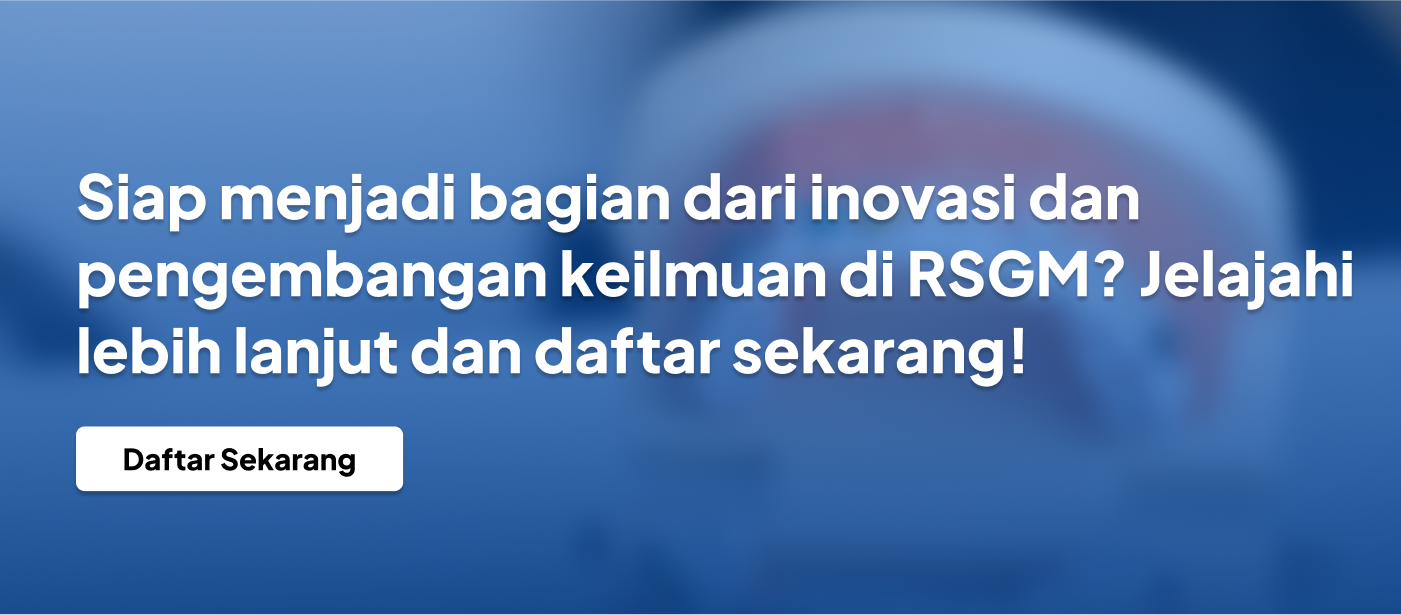
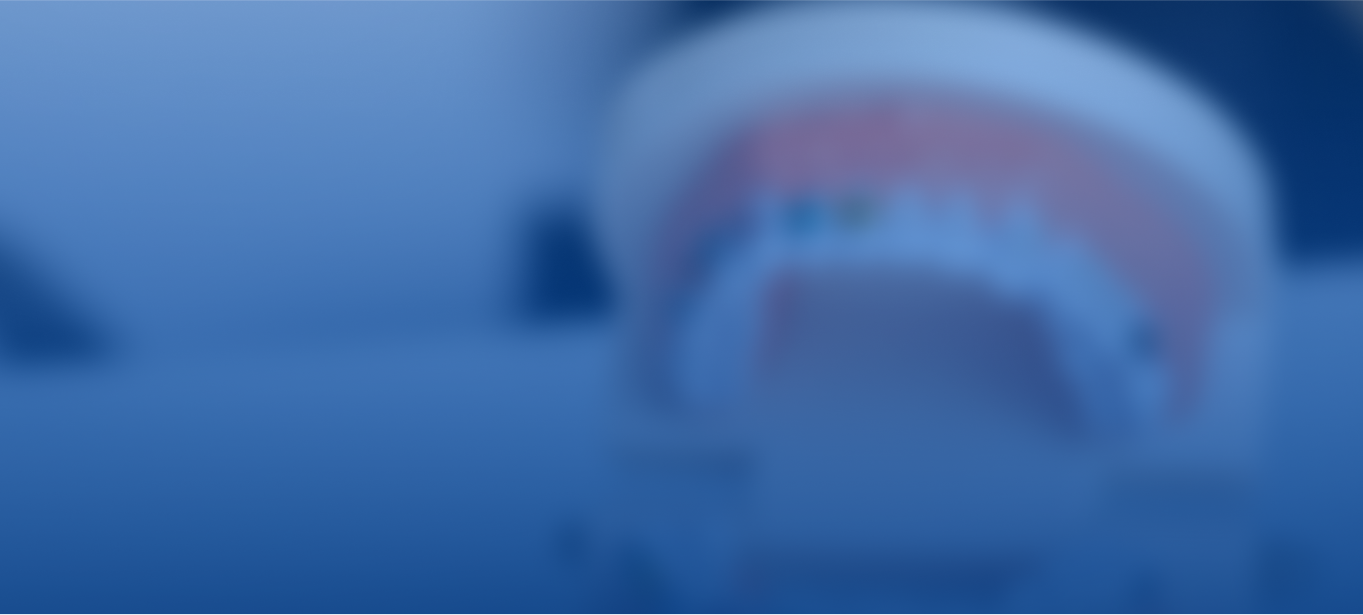
landingPage3

Changed region(s): [[0.0308, 0.1545, 0.9861, 0.6488], [0.0308, 0.6797, 0.3081, 0.8033], [0.0, 0.9886, 1.0, 1.0]]

diff --git a/app/landingPage/page.jsx b/app/landingPage/page.jsx
@@ -1,9 +1,9 @@
-
 'use client'
 import Image from "next/image";
 import Link from "next/link";
 
-const PageLandingpage = () => {
+const ComponentLandingpage = () => {
+  
   return (
     <div className="min-h-screen flex flex-col">
       {/* Header */}
@@ -52,28 +52,29 @@ const PageLandingpage = () => {
             </Link>
           </div>
 
-          <div className="hidden md:flex items-center gap-8">
-            <nav className="flex gap-6">
-              <Link
-                href="/penelitian"
-                className="font-medium text-white hover:text-[#0360d9]" // Ubah jadi putih
-              >
-                Penelitian
-              </Link>
-              <Link
-                href="/magang"
-                className="font-medium text-white hover:text-[#0360d9]" // Ubah jadi putih
-              >
-                Magang
-              </Link>
-            </nav>
-            <Link
-              href="/login"
-              className="bg-white text-black px-6 py-2 rounded-full font-medium border border-gray-200 hover:bg-gray-100 transition-colors"
-            >
-              Login
-            </Link>
-          </div>
+          <div className="md:flex items-center gap-8">
+  <nav className="flex gap-6">
+    <Link
+      href="/penelitian"
+      className="hidden md:block font-medium text-white hover:text-[#0360d9]" // Hanya hidden di mobile
+    >
+      Penelitian
+    </Link>
+    <Link
+      href="/magang"
+      className="hidden md:block font-medium text-white hover:text-[#0360d9]" // Hanya hidden di mobile
+    >
+      Magang
+    </Link>
+  </nav>
+  <Link
+    href="/login"
+    className="bg-white text-black px-6 py-2 rounded-full font-medium border border-gray-200 hover:bg-gray-100 transition-colors"
+  >
+    Login
+  </Link>
+</div>
+
         </div>
       </header>
 
@@ -205,43 +206,46 @@ const PageLandingpage = () => {
           </div>
         </section>
 
-        {/* Benefits Section */}
-        <section className="py-16">
-          <div className="container mx-auto px-4">
-            <h2 className="text-2xl font-bold mb-8">Keuntungan Bergabung di RSGM</h2>
+             {/* Benefits Section */}
+      <section className="py-16">
+        <div className="container mx-auto px-4">
+          <h2 className="text-5xl font-bold mb-10">Keuntungan Bergabung di RSGM</h2>
 
-            <div className="grid md:grid-cols-2 gap-8">
-              <div className="flex flex-col md:flex-row gap-4">
-                <div className="flex-1 space-y-6">
-                  <div className="bg-white p-6 rounded-lg shadow-sm border">
-                    <h3 className="font-bold text-lg mb-2">Akses Fasilitas Medis Modern</h3>
-                    <p className="text-gray-600">
-                      Gunakan peralatan terlengkap di lingkungan rumah sakit dengan teknologi terkini.
-                    </p>
-                  </div>
+          <div className="grid md:grid-cols-2 gap-8">
+            <div className="flex flex-col md:flex-row gap-4">
+              <div className="flex-1 space-y-10">
+                <div className="bg-white p-12 rounded-lg shadow-sm border">
+                  <h3 className="font-bold text-3xl mb-6">Akses Fasilitas Medis Modern</h3>
+                  <p className="text-gray-600 text-xl">
+                    Gunakan peralatan terlengkap di lingkungan rumah sakit dengan teknologi terkini.
+                  </p>
+                </div>
 
-                  <div className="bg-white p-6 rounded-lg shadow-sm border">
-                    <h3 className="font-bold text-lg mb-2">Bimbingan dari Profesional</h3>
-                    <p className="text-gray-600">Dibimbing oleh tenaga ahli dan praktisi berpengalaman di bidangnya.</p>
-                  </div>
+                <div className="bg-white p-12 rounded-lg shadow-sm border">
+                  <h3 className="font-bold text-3xl mb-6">Bimbingan dari Profesional</h3>
+                  <p className="text-gray-600 text-xl">Dibimbing oleh tenaga ahli dan praktisi berpengalaman di bidangnya.</p>
+                </div>
 
-                  <div className="bg-white p-6 rounded-lg shadow-sm border">
-                    <h3 className="font-bold text-lg mb-2">Peluang Berkontribusi</h3>
-                    <p className="text-gray-600">
-                      Berperan dalam penelitian dan praktik yang berdampak nyata pada dunia.
-                    </p>
-                  </div>
+                <div className="bg-white p-12 rounded-lg shadow-sm border">
+                  <h3 className="font-bold text-3xl mb-6">Peluang Berkontribusi</h3>
+                  <p className="text-gray-600 text-xl">
+                    Berperan dalam penelitian dan praktik yang berdampak nyata pada dunia.
+                  </p>
                 </div>
               </div>
+            </div>
 
-              <div className="grid grid-cols-2 gap-4">
+            <div className="grid grid-cols-1 gap-4">
+              <div>
                 <Image
-                  src="/placeholder.svg?height=250&width=250"
+                  src="/images/keuntungan.png?height=250&width=250"
                   alt="Dental Professionals"
                   width={250}
                   height={250}
                   className="rounded-lg object-cover w-full h-full"
                 />
+              </div>
+              <div className="grid grid-cols-3 gap-4">
                 <Image
                   src="/placeholder.svg?height=250&width=250"
                   alt="Dental Professionals"
@@ -266,23 +270,29 @@ const PageLandingpage = () => {
               </div>
             </div>
           </div>
-        </section>
+        </div>
+      </section>
+
 
         {/* CTA Section */}
-        <section className="py-16 bg-blue-700 text-white">
-          <div className="container mx-auto px-4 text-center">
-            <h2 className="text-2xl md:text-3xl font-bold mb-6">
-              Siap menjadi bagian dari inovasi dan pengembangan keilmuan di RSGM? Jelajahi lebih lanjut dan daftar
-              sekarang!
-            </h2>
-            <Link
-              href="/daftar"
-              className="inline-flex items-center bg-white text-blue-700 px-6 py-3 rounded-md hover:bg-gray-100 transition-colors font-medium"
-            >
-              Daftar Sekarang
-            </Link>
-          </div>
-        </section>
+<section
+  className="py-24 bg-cover bg-center text-white"
+  style={{ backgroundImage: "url('/images/siapmenjadi.png')" }}
+>
+  <div className="container mx-auto px-4 text-left">
+    <h2 className="text-4xl md:text-6xl font-extrabold leading-tight mb-8 drop-shadow-lg">
+      Siap menjadi bagian dari inovasi dan pengembangan keilmuan di RSGM? 
+      <br className="hidden md:block" /> Jelajahi lebih lanjut dan daftar sekarang!
+    </h2>
+    <Link
+      href="/daftar"
+      className="inline-block bg-white text-blue-700 text-lg md:text-2xl font-semibold px-10 py-4 rounded-lg hover:bg-gray-100 transition-transform transform hover:scale-105 shadow-md"
+    >
+      Daftar Sekarang
+    </Link>
+  </div>
+</section>
+
 
       {/* Footer */}
       <footer className="bg-[#0360d9] text-white p-6 mt-auto">
@@ -376,4 +386,4 @@ const PageLandingpage = () => {
   );
 };
 
-export default PageLandingpage;
+export default ComponentLandingpage;

diff --git a/component/landingPage/landingPage.jsx b/component/landingPage/landingPage.jsx
@@ -6,76 +6,7 @@ const ComponentLandingpage = () => {
   
   return (
     <div className="min-h-screen flex flex-col">
-      {/* Header */}
-      <header className="bg-transparent fixed top-0 w-full z-50">
-        <div className="container mx-auto px-4 py-3 flex justify-between items-center">
-          <div className="flex items-center gap-3">
-            <button className="text-white">
-              {" "}
-              {/* Selalu ada dan bewarna putih */}
-              <svg
-                xmlns="http://www.w3.org/2000/svg"
-                width="24"
-                height="24"
-                viewBox="0 0 24 24"
-                fill="none"
-                stroke="currentColor"
-                strokeWidth="2"
-                strokeLinecap="round"
-                strokeLinejoin="round"
-              >
-                <line x1="3" y1="12" x2="21" y2="12"></line>
-                <line x1="3" y1="6" x2="21" y2="6"></line>
-                <line x1="3" y1="18" x2="21" y2="18"></line>
-              </svg>
-            </button>
-            <Link href="/" className="flex items-center gap-2">
-              <Image
-                src="/logo.svg"
-                alt="RSGM Soelastri Logo"
-                width={40}
-                height={40}
-                className="rounded-full bg-[#0360d9] p-1"
-              />
-              <div>
-                <h1 className="font-bold text-lg md:text-xl text-white">
-                  {" "}
-                  {/* Ubah jadi putih */}
-                  RSGM SOELASTRI
-                </h1>
-                <p className="text-xs md:text-sm text-gray-200">
-                  {" "}
-                  {/* Ubah agar lebih terang */}
-                  Sejahtera - Maju - Islami - Loyal - Empati
-                </p>
-              </div>
-            </Link>
-          </div>
-
-          <div className="hidden md:flex items-center gap-8">
-            <nav className="flex gap-6">
-              <Link
-                href="/penelitian"
-                className="font-medium text-white hover:text-[#0360d9]" // Ubah jadi putih
-              >
-                Penelitian
-              </Link>
-              <Link
-                href="/magang"
-                className="font-medium text-white hover:text-[#0360d9]" // Ubah jadi putih
-              >
-                Magang
-              </Link>
-            </nav>
-            <Link
-              href="/login"
-              className="bg-white text-black px-6 py-2 rounded-full font-medium border border-gray-200 hover:bg-gray-100 transition-colors"
-            >
-              Login
-            </Link>
-          </div>
-        </div>
-      </header>
+      
 
       {/* Hero Section */}
       <section className="relative h-[500px] md:h-[800px] w-full">
